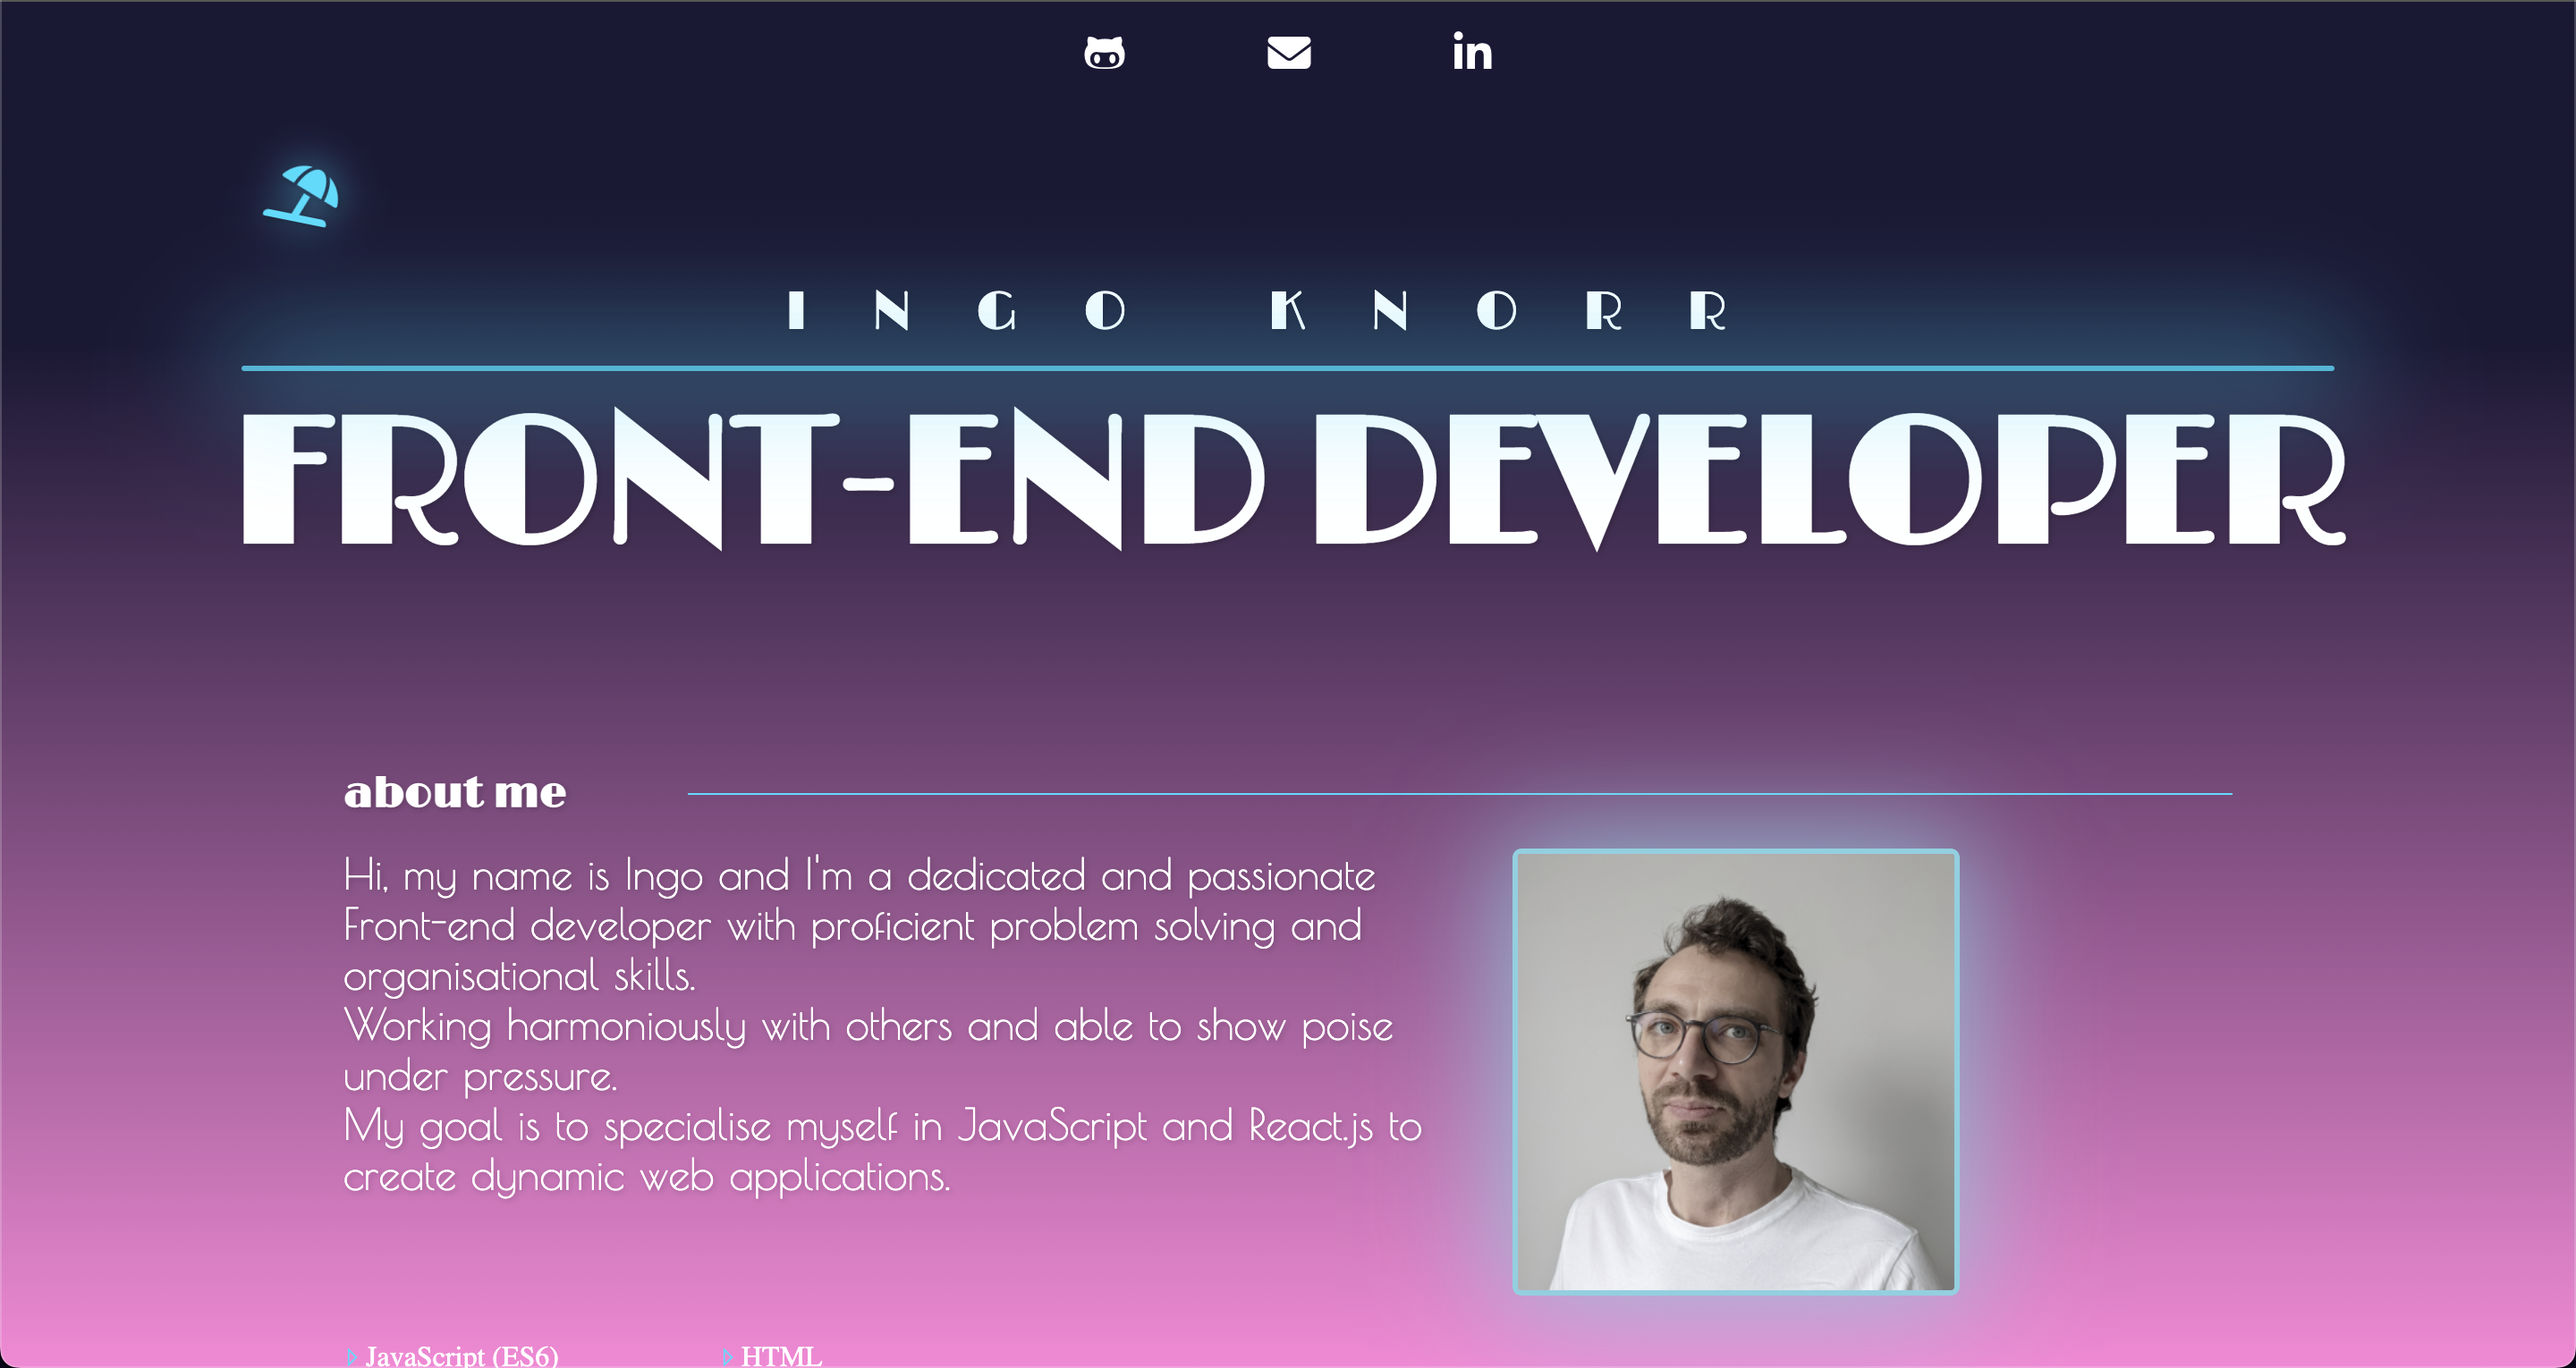
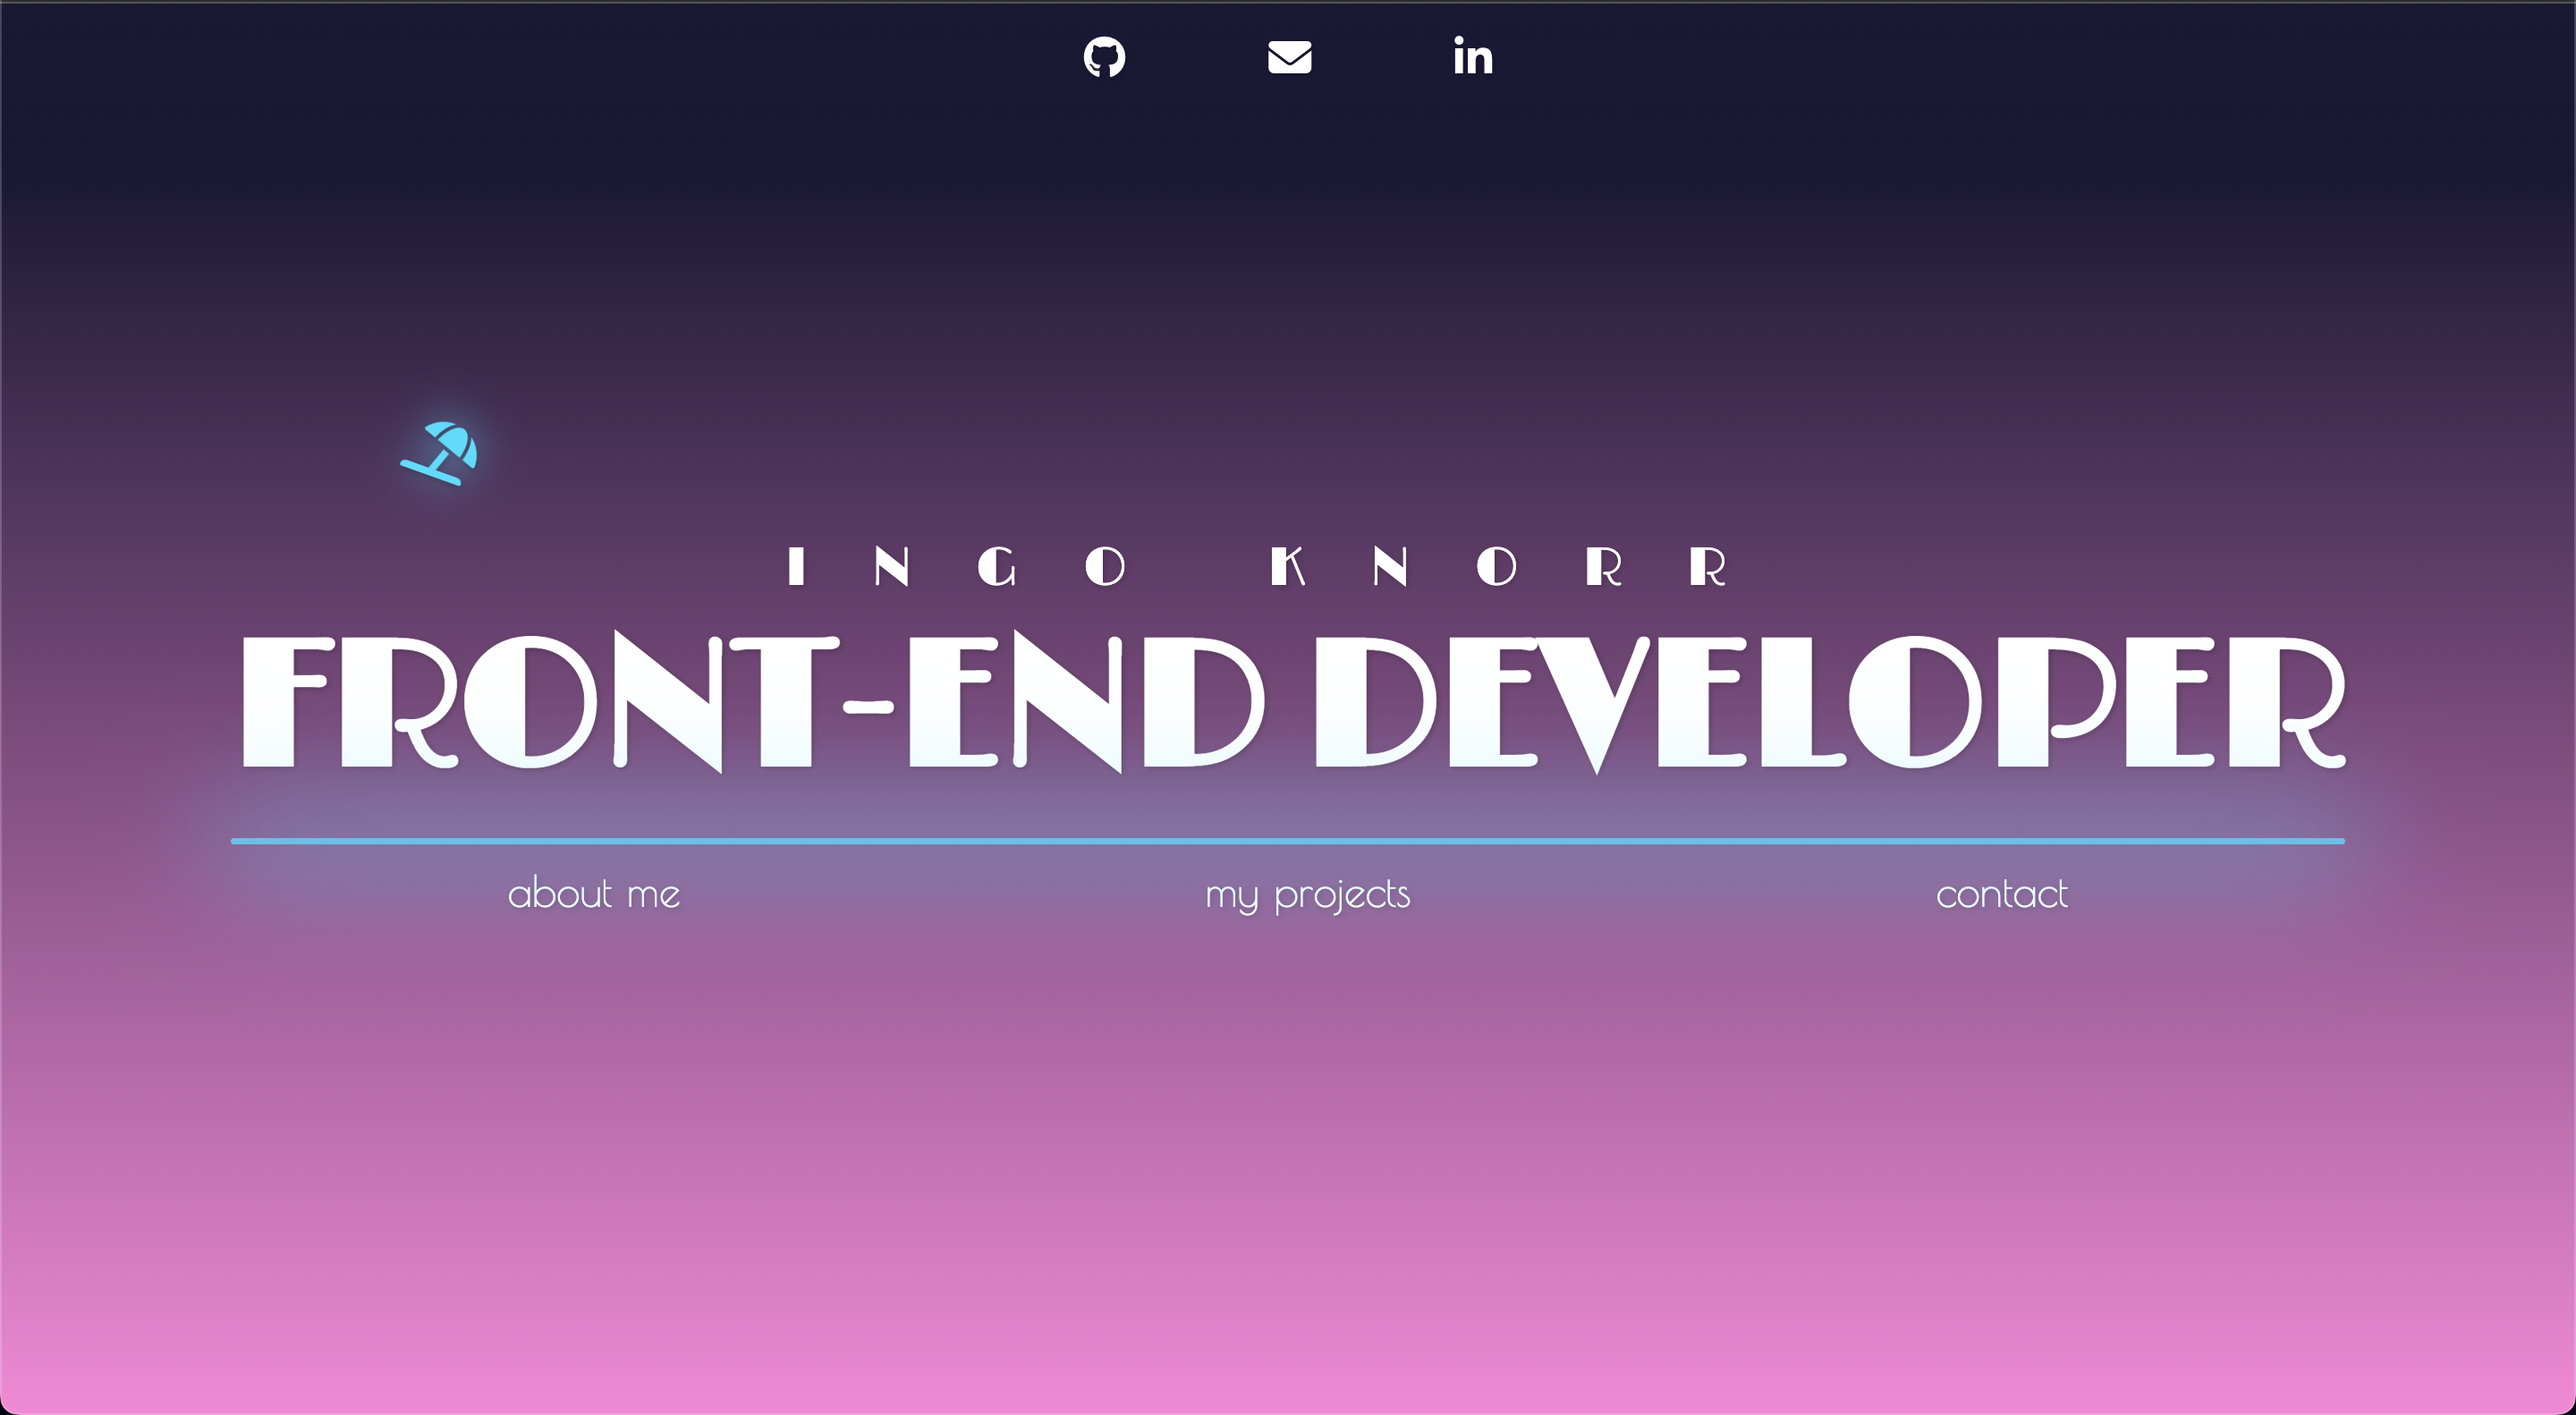
added footer

diff --git a/index.html b/index.html
@@ -12,9 +12,9 @@
     ></script>
   </head>
   <body>
-    <div class="nav">
+    <div class="nav" id="main">
       <a href="https://github.com/iKnorr" target="_blank">
-        <i class="fa-brands fa-github-alt"></i>
+        <i class="fa-brands fa-github"></i>
       </a>
       <a href="mailto: ingoknorr@gmail.com" class="open-envelope">
         <i class="close fa-solid fa-envelope"></i>
@@ -100,7 +100,7 @@
           </div> -->
       </div>
     </div>
-    <div class="section-id fade-down">
+    <div class="section-id">
       <div class="heading-line" id="about-me">
         <h2 class="heading">about me</h2>
       </div>
@@ -137,8 +137,9 @@
       <h2 class="heading-projects">the things i've build</h2>
       <div class="project-main">
         <div class="project-image">
-          <a href="#"></a
-          ><img src="images/my-portfolio.png" alt="my portfolio" />
+          <a href="/#main"
+            ><img src="images/my-portfolio.png" alt="my portfolio"
+          /></a>
         </div>
         <div class="project-content">
           <h3 class="project-img-heading">my portfolio</h3>
@@ -147,10 +148,10 @@
             CSS and JavaScript(ES6)
           </p>
           <div class="project-links">
-            <a href="https://github.com/iKnorr/my-portfolio"
-              ><i class="fa-brands fa-github-alt"></i
+            <a href="https://github.com/iKnorr/my-portfolio" target="_blank"
+              ><i class="fa-brands fa-github"></i
             ></a>
-            <a href="#"
+            <a href="/#main"
               ><i class="fa-solid fa-arrow-up-right-from-square"></i
             ></a>
           </div>
@@ -158,7 +159,9 @@
       </div>
       <div class="project-main">
         <div class="project-image">
-          <a href="#"></a><img src="images/nuts-notes.png" alt="my portfolio" />
+          <a href="https://www.nuts-notes.xyz/" target="_blank"
+            ><img src="images/nuts-notes.png" alt="Nuts-Notes"
+          /></a>
         </div>
         <div class="project-content">
           <h3 class="project-img-heading">nuts-notes</h3>
@@ -169,10 +172,12 @@
             podcasts.
           </p>
           <div class="project-links">
-            <a href="https://github.com/ValentineFouche/nuts_app"
-              ><i class="fa-brands fa-github-alt"></i
+            <a
+              href="https://github.com/ValentineFouche/nuts_app"
+              target="_blank"
+              ><i class="fa-brands fa-github"></i
             ></a>
-            <a href="https://www.nuts-notes.xyz/"
+            <a href="https://www.nuts-notes.xyz/" target="_blank"
               ><i class="fa-solid fa-arrow-up-right-from-square"></i
             ></a>
           </div>
@@ -180,7 +185,9 @@
       </div>
       <div class="project-main">
         <div class="project-image">
-          <a href="#"></a><img src="images/grow-peas.png" alt="my portfolio" />
+          <a href="https://growpeas.herokuapp.com/" target="_blank"
+            ><img src="images/grow-peas.png" alt="GrowPease"
+          /></a>
         </div>
         <div class="project-content">
           <h3 class="project-img-heading">GrowPeas</h3>
@@ -189,15 +196,30 @@
             participate and create organised courses.
           </p>
           <div class="project-links">
-            <a href="https://github.com/Evalohaa/growpeas"
-              ><i class="fa-brands fa-github-alt"></i
+            <a href="https://github.com/Evalohaa/growpeas" target="_blank"
+              ><i class="fa-brands fa-github"></i
             ></a>
-            <a href="https://growpeas.herokuapp.com/"
+            <a href="https://growpeas.herokuapp.com/" target="_blank"
               ><i class="fa-solid fa-arrow-up-right-from-square"></i
             ></a>
           </div>
         </div>
       </div>
+    </div>
+    <div class="footer">
+      <a href="/#main">
+        <i class="fa-solid fa-city"></i>
+      </a>
+      <a href="https://github.com/iKnorr" target="_blank">
+        <i class="fa-brands fa-github"></i>
+      </a>
+      <a href="https://www.linkedin.com/in/i-knorr/" target="_blank">
+        <i class="fa-brands fa-linkedin-in"></i>
+      </a>
+      <a href="mailto: ingoknorr@gmail.com" class="open-envelope">
+        <i class="close fa-solid fa-envelope"></i>
+        <i class="open fa-solid fa-envelope-open"></i>
+      </a>
     </div>
     <div class="overlay hidden fade"></div>
 

diff --git a/css/style.css b/css/style.css
@@ -11,7 +11,7 @@ html {
   scroll-behavior: smooth;
 }
 body {
-  background: linear-gradient(#1a1835 25%, #ff84d8);
+  background: linear-gradient(#1a1835 12%, #ff84d8);
   background-repeat: no-repeat;
   background-attachment: fixed;
   margin: 0;
@@ -47,6 +47,7 @@ h3 {
   color: white;
   font-size: 1.5rem;
   transition: all 0.7s ease;
+  filter: drop-shadow(0 0 0.75rem rgba(255, 255, 255, 0.74));
 }
 
 .nav a:hover {
@@ -326,7 +327,7 @@ h3 {
   max-width: 250px;
   border-radius: 3rem;
   border: solid #00ddff;
-  box-shadow: 0px 0px 66px 8px rgba(0, 221, 255, 0.8);
+  box-shadow: 0px 0px 66px 8px rgba(0, 221, 255, 0.4);
   border-width: 0.4rem;
   filter: saturate(0.5);
 }
@@ -407,6 +408,33 @@ h3 {
   color: #00ddffe4;
   opacity: 0.8;
   transform: rotate(1turn);
+}
+
+/* Footer */
+.footer {
+  height: 13vh;
+  display: flex;
+  justify-content: center;
+  align-items: center;
+  background-color: #1a1835;
+  /* box-shadow: 0rem 0px 17px 7px rgb(250 250 250 / 54%); */
+  box-shadow: inset 0px 0px 66px 5px rgba(0, 221, 255, 0.5);
+}
+
+.footer a {
+  margin: 1rem 2.5rem;
+  text-decoration: none;
+  color: #00ddff;
+  font-size: 1.5rem;
+  transition: all 0.7s ease;
+  filter: drop-shadow(0 0 0.75rem rgba(0, 221, 255, 0.74));
+}
+
+.footer a:hover {
+  color: white;
+  opacity: 0.8;
+  transform: rotate(1turn);
+  filter: drop-shadow(0 0 0.75rem rgba(255, 255, 255, 0.74));
 }
 
 /* Media Queries bout section*/
